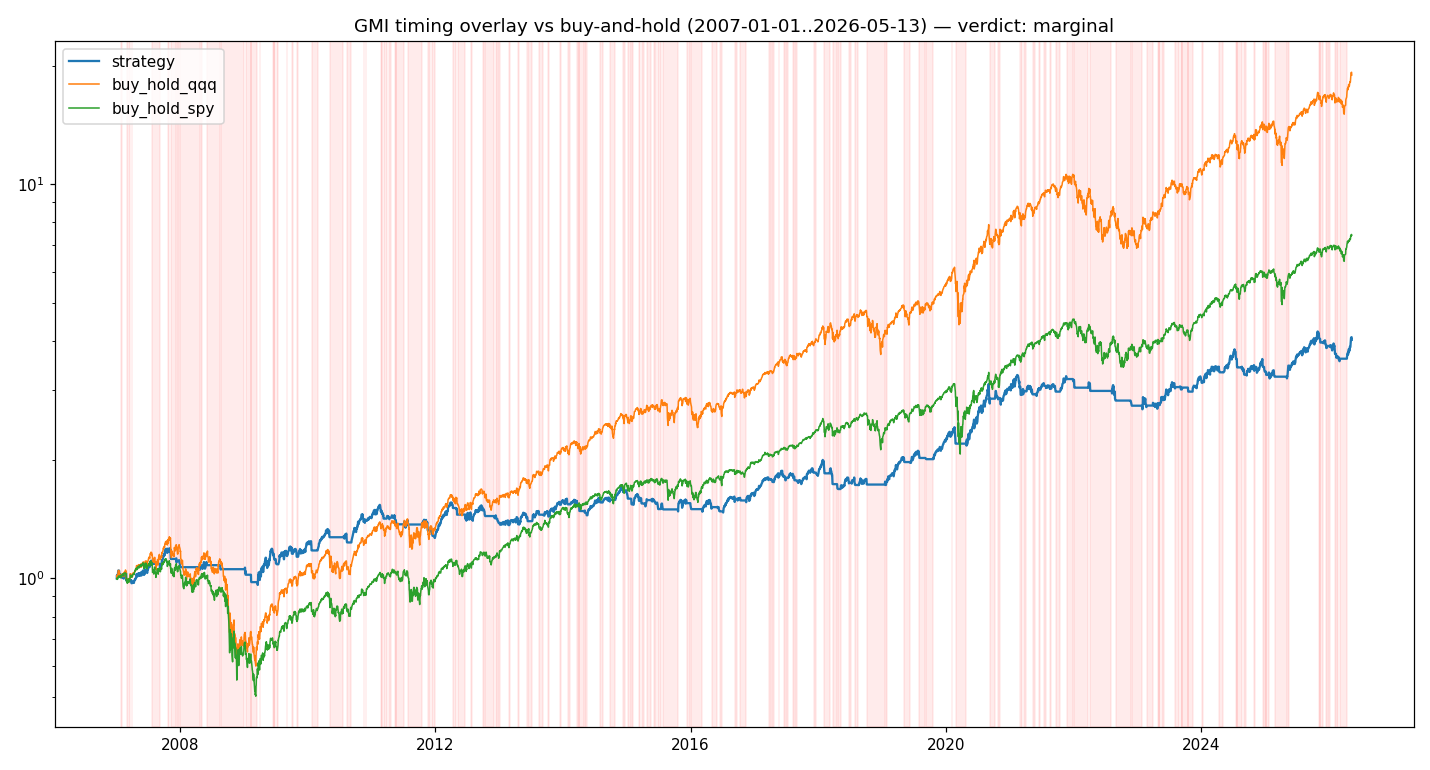
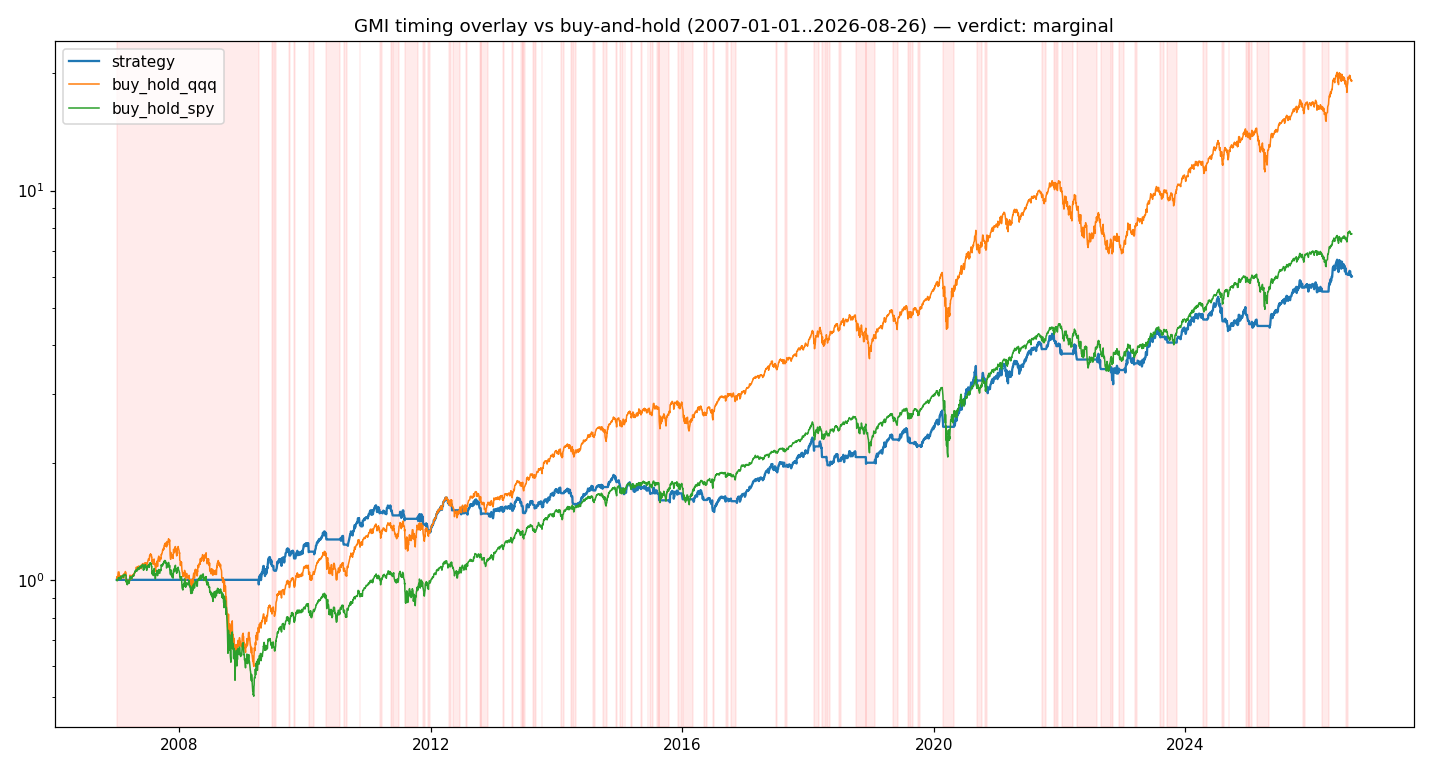
chore: refresh the committed equity-curve chart for the corrected rule
The backtest writes its chart to data/backtest/ (gitignored); nothing copies it
into assets/, so the committed copy the wiki page links to had been stale since
May. Refreshed, and the gap noted where the path is emitted.

Changed region(s): [[0.0923, 0.0312, 0.9538, 0.9974], [0.4615, 0.9351, 0.4923, 0.9974], [0.0, 0.2182, 0.0308, 0.2494]]

diff --git a/src/ww/backtest/run.py b/src/ww/backtest/run.py
@@ -174,6 +174,8 @@ def write_wiki_page(root: Path, results: dict, *, plot_url: str | None, period: 
                  f"### Verdict: **{results['verdict']}**\n")
     # `assets/backtest/equity_curve.png` is committed at the repo root; from this page
     # (wiki/methodology/) that is two levels up. `ww lint` verifies the link resolves on disk.
+    # NOTE: the run writes the chart to data/backtest/ (gitignored) - nothing copies it into
+    # assets/, so refresh that committed copy by hand when the numbers change materially.
     lines.append("\n![equity curve](../../assets/backtest/equity_curve.png)\n\n"
                  "*(Strategy vs buy-and-hold QQQ vs SPY, log scale, RED periods shaded"
                  + (f" — also at [{plot_url}]({plot_url}) for 72 h)" if plot_url else ")") + "*\n")
